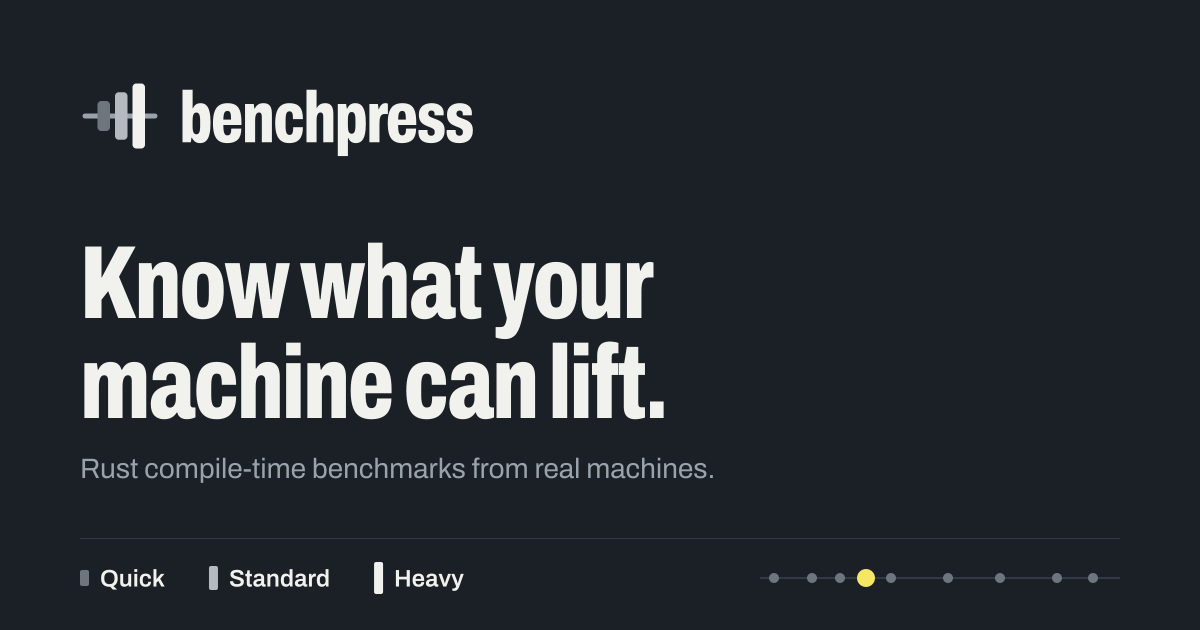
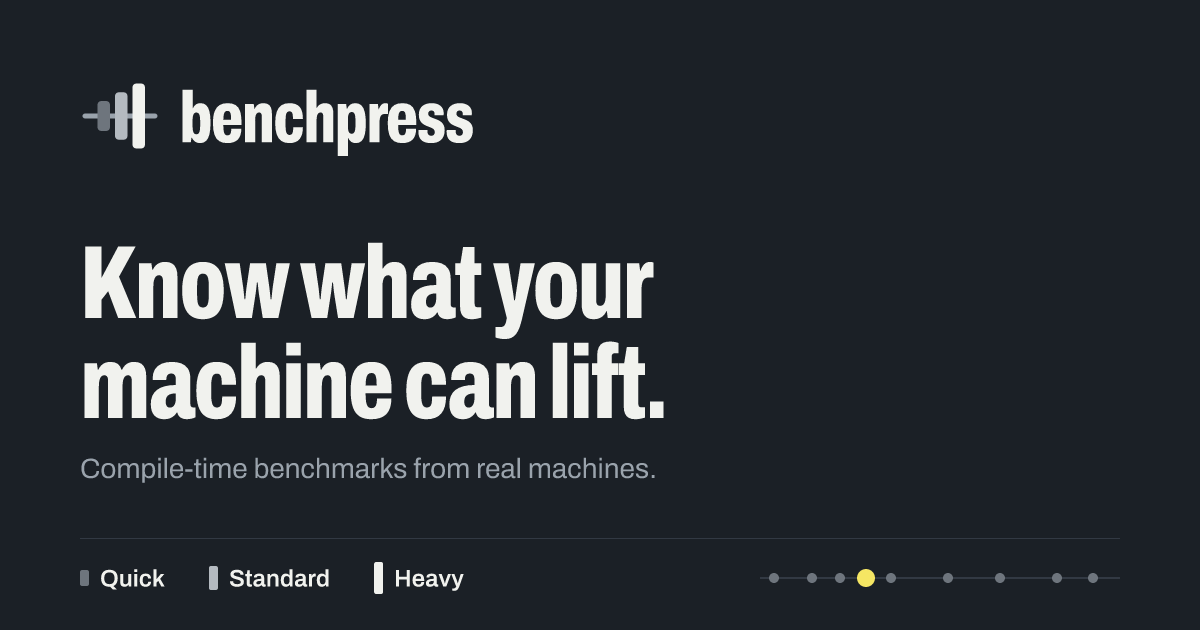
Pitch Benchpress as a compile-time benchmark and shorten the run command
The run command is now curl -fsSL https://benchpress.matx.dev/run | sh.
/run redirects to RUN_URL, so moving the script to release assets later
changes one constant and the command stays the same.

The site, README, CLI help and share image no longer call Benchpress a
Rust tool. They say the first suites are Rust projects and that no
compiler needs to be installed.

Changed region(s): [[0.0617, 0.7238, 0.5858, 0.7841]]

diff --git a/crates/server/templates/home.html b/crates/server/templates/home.html
@@ -2,9 +2,9 @@
 {% from "macros.html" import tier, install_box %}
 {% block main %}
 <section class="home-hero" aria-labelledby="hero-title">
-  <p class="eyebrow">Rust compile-time benchmarks</p>
-  <h1 id="hero-title" class="display">How fast does your machine build Rust?</h1>
-  <p class="lede">Benchpress compiles real open source Rust projects with pinned toolchains, times every build, and shows where your machine ranks against others. One command, nothing to install, and results stay on your machine unless you publish them.</p>
+  <p class="eyebrow">Compile-time benchmarks</p>
+  <h1 id="hero-title" class="display">How fast does your machine build code?</h1>
+  <p class="lede">Benchpress builds real open source projects with pinned compilers, times every build, and shows where your machine ranks against others. You need one command and no compiler, and results stay on your machine unless you publish them.</p>
   <div class="hero-cmd">{{ install_box("install-cmd") }}</div>
   <p class="muted hero-note"><small>Linux (x86_64, arm64) and Apple Silicon Macs. No sudo, nothing left behind. <a href="/start">What the script does</a></small></p>
 </section>
@@ -18,7 +18,7 @@
   <div class="step">
     <span class="step-n num">2</span>
     <h2>Pick a suite</h2>
-    <p class="muted">Benchpress fetches a pinned Rust toolchain and project sources, then times clean and incremental builds several times each.</p>
+    <p class="muted">Benchpress downloads the exact compiler and sources the suite pins into its own cache, then times clean and incremental builds several times each. Compilers you already have are never used or changed.</p>
   </div>
   <div class="step">
     <span class="step-n num">3</span>
@@ -45,6 +45,7 @@
 
 <section class="section" aria-labelledby="tiers-title">
   <div class="section-head"><h2 id="tiers-title">Three suites, light to heavy</h2><a href="/suites">Suite details</a></div>
+  <p class="muted suites-note">The first suites build Rust projects, because Rust's tooling makes an exact build easy to pin and repeat. You do not need Rust installed. Suites for other languages can follow.</p>
   <div class="cols-3">
     {% for s in tiers %}
     <article class="tier-card">

diff --git a/crates/server/templates/start.html b/crates/server/templates/start.html
@@ -3,7 +3,7 @@
 {% block main %}
 <div class="prose">
 <h1 class="display title">Run it now, nothing to install</h1>
-<p class="lede">One command for Linux (x86_64, arm64) and Apple Silicon Macs. No sudo, and nothing stays behind unless you keep it.</p>
+<p class="lede">One command for Linux (x86_64, arm64) and Apple Silicon Macs. No sudo, no compiler needed, and nothing stays behind unless you keep it.</p>
 <div class="mt-7">{{ install_box("install-cmd") }}</div>
 <p class="muted"><small>Skip the menu and start the quick suite: <code class="wrap">curl -fsSL {{ run_url }} | sh -s -- run quick</code></small></p>
 
@@ -15,7 +15,7 @@
   <li>Deletes the binary when you quit. Before that, benchpress offers to remove the toolchains and sources it downloaded.</li>
   <li>Runs everything inside a function called on its last line, so a partially downloaded script never runs.</li>
 </ul>
-<p class="mt-3">The command fetches the script straight from the GitHub repository. <a href="{{ script_url }}">Read it first</a> if you like.</p>
+<p class="mt-3"><code>{{ run_url }}</code> redirects to the script in the GitHub repository. <a href="{{ script_url }}">Read it first</a> if you like.</p>
 
 <h2>Where data goes</h2>
 <dl class="paths mt-5">

diff --git a/crates/server/templates/base.html b/crates/server/templates/base.html
@@ -6,7 +6,7 @@
 <meta name="color-scheme" content="{% if theme %}{{ theme }}{% else %}dark light{% endif %}">
 <meta name="theme-color" content="#1B2026" media="(prefers-color-scheme: dark)">
 <meta name="theme-color" content="#F4F5F3" media="(prefers-color-scheme: light)">
-<title>{% if title == "Benchpress" %}Benchpress · Rust compile-time benchmarks{% else %}{{ title }} · Benchpress{% endif %}</title>
+<title>{% if title == "Benchpress" %}Benchpress · Compile-time benchmarks{% else %}{{ title }} · Benchpress{% endif %}</title>
 <meta name="description" content="{{ description }}">
 {% if path %}<link rel="canonical" href="{{ public_url }}{{ path }}">{% endif %}
 <link rel="icon" href="/favicon.ico" sizes="48x48">
@@ -48,7 +48,7 @@
 </main>
 <footer class="site-footer">
   <div class="wrap">
-    <p>Know what your machine can lift. Rust compile-time benchmarks from real machines.</p>
+    <p>Know what your machine can lift. Compile-time benchmarks from real machines.</p>
     <nav aria-label="Footer">
       <a href="https://github.com/matx64/benchpress">Source on GitHub</a>
       <a href="/about#privacy">Privacy</a>

diff --git a/crates/server/static/app.css b/crates/server/static/app.css
@@ -180,6 +180,7 @@
   .home-hero { padding-block: var(--bp-space-7) var(--bp-space-4); text-align: center; display: grid; justify-items: center; }
   .home-hero h1 { font-size: clamp(var(--bp-size-2xl), 7vw, var(--bp-size-4xl)); max-width: 16ch; }
   .home-hero .lede { max-width: 60ch; margin-top: var(--bp-space-5); }
+  .suites-note { max-width: 70ch; margin: calc(-1 * var(--bp-space-3)) 0 var(--bp-space-5); }
   .hero-cmd { width: 100%; max-width: 60rem; margin-top: var(--bp-space-7); text-align: left; }
   .hero-cmd .cmd { background: var(--bp-surface); }
   .hero-cmd .cmd code { font-size: var(--bp-size-sm); padding: var(--bp-space-4) var(--bp-space-5); }

diff --git a/crates/server/templates/about.html b/crates/server/templates/about.html
@@ -2,7 +2,7 @@
 {% block main %}
 <div class="prose">
 <h1 class="display title">Methodology and privacy</h1>
-<p class="lede">Benchpress answers buying questions with real builds: clean builds, incremental rebuilds and <code>cargo check</code> on pinned Rust projects, measured on the machines people actually use.</p>
+<p class="lede">Benchpress answers buying questions with real builds: clean builds, incremental rebuilds and type checks of pinned open source projects, measured on the machines people actually use. Today every suite is a Rust project, because Rust's tooling makes an exact build easy to pin.</p>
 
 <h2>What a run does</h2>
 <ul>

diff --git a/crates/server/src/assets.rs b/crates/server/src/assets.rs
@@ -6,7 +6,7 @@ use std::sync::{Arc, LazyLock};
 use axum::Router;
 use axum::extract::Path;
 use axum::http::{StatusCode, header};
-use axum::response::{IntoResponse, Response};
+use axum::response::{IntoResponse, Redirect, Response};
 use axum::routing::get;
 use sha2::{Digest, Sha256};
 
@@ -103,7 +103,7 @@ fn serve(name: &str, immutable: bool) -> Response {
         .into_response()
 }
 
-/// Where the launcher is fetched from. Switch to
+/// Where `/run` redirects. Switch to
 /// `https://github.com/matx64/benchpress/releases/latest/download/run.sh` after the first release.
 pub const RUN_URL: &str = "https://raw.githubusercontent.com/matx64/benchpress/main/run.sh";
 
@@ -138,5 +138,6 @@ pub fn routes() -> Router<Arc<AppState>> {
             "/social/og-default.png",
             get(|| async { serve("social/og-default.png", false) }),
         )
+        .route("/run", get(|| async { Redirect::temporary(RUN_URL) }))
         .route("/robots.txt", get(|| async { "User-agent: *\nAllow: /\n" }))
 }

diff --git a/crates/server/src/views.rs b/crates/server/src/views.rs
@@ -29,12 +29,10 @@ impl Views {
             "sprite",
             Value::from_safe_string(include_str!("../assets/sprite.svg").to_owned()),
         );
-        env.add_global("run_url", assets::RUN_URL);
+        let run_url = format!("{public_url}/run");
+        env.add_global("install_cmd", format!("curl -fsSL {run_url} | sh"));
+        env.add_global("run_url", run_url);
         env.add_global("script_url", assets::SCRIPT_SOURCE_URL);
-        env.add_global(
-            "install_cmd",
-            format!("curl -fsSL {} | sh", assets::RUN_URL),
-        );
         env.add_function("asset", |name: &str| {
             Value::from_safe_string(assets::url(name))
         });

diff --git a/crates/cli/src/main.rs b/crates/cli/src/main.rs
@@ -1,4 +1,4 @@
-//! `benchpress`: benchmark Rust compile times on this machine.
+//! `benchpress`: benchmark compile times on this machine.
 
 mod commands;
 mod fetch;
@@ -18,7 +18,7 @@ use std::process::ExitCode;
 
 use clap::{Parser, Subcommand};
 
-/// Know what your machine can lift. Rust compile-time benchmarks from real machines.
+/// Know what your machine can lift. Compile-time benchmarks from real machines.
 #[derive(Parser)]
 #[command(name = "benchpress", version, about, long_about = None)]
 struct Cli {

diff --git a/crates/server/tests/api.rs b/crates/server/tests/api.rs
@@ -108,6 +108,15 @@ async fn submit_show_unpublish() {
 
     let steps = [
         Step {
+            name: "run command",
+            method: Method::GET,
+            path: "/run",
+            token: None,
+            body: None,
+            status: StatusCode::TEMPORARY_REDIRECT,
+            code: None,
+        },
+        Step {
             name: "duplicate",
             method: Method::POST,
             path: "/api/v1/results",

diff --git a/crates/server/src/pages.rs b/crates/server/src/pages.rs
@@ -279,7 +279,7 @@ async fn home(State(state): State<Arc<AppState>>, jar: CookieJar, headers: Heade
         .collect();
     let mut ctx = p.base(
         "Benchpress",
-        "Know what your machine can lift. Rust compile-time benchmarks from real machines.",
+        "Know what your machine can lift. Compile-time benchmarks from real machines.",
         "/",
         "home",
     );

diff --git a/README.md b/README.md
@@ -9,13 +9,15 @@ Benchpress measures how fast your computer compiles software. It builds a well-k
 
 Use it to compare laptops before you buy, check whether an upgrade paid off, or see how a new machine stacks up before you trust it with real work.
 
+The first suites build Rust projects, because Rust's tooling makes an exact build easy to pin and repeat. You do not need Rust installed: Benchpress downloads each suite's toolchain into its own cache and reuses it on later runs. Suites for other languages can follow.
+
 ## Run it, nothing to install
 
 ```sh
-curl -fsSL https://raw.githubusercontent.com/matx64/benchpress/main/run.sh | sh
+curl -fsSL https://benchpress.matx.dev/run | sh
 ```
 
-This works on Linux (x86_64 and arm64) and Apple Silicon Macs, and never uses `sudo`. The command fetches [`run.sh`](run.sh) from this repository, so you can read it first. The script:
+This works on Linux (x86_64 and arm64) and Apple Silicon Macs, and never uses `sudo`. `benchpress.matx.dev/run` redirects to [`run.sh`](run.sh) in this repository, so you can read it first. The script:
 
 1. downloads one static binary from the latest release into a temporary directory and checks its SHA-256;
 2. opens a menu in your terminal, where every action returns to the menu and Ctrl+C cancels a running benchmark;
@@ -24,7 +26,7 @@ This works on Linux (x86_64 and arm64) and Apple Silicon Macs, and never uses `s
 To skip the menu, pass a command after `sh -s --`:
 
 ```sh
-curl -fsSL https://raw.githubusercontent.com/matx64/benchpress/main/run.sh | sh -s -- run quick
+curl -fsSL https://benchpress.matx.dev/run | sh -s -- run quick
 ```
 
 <!-- TODO: screenshot of a result page -->

diff --git a/docs/deploy.md b/docs/deploy.md
@@ -49,11 +49,7 @@ Deploy runs `fly deploy --remote-only`, which builds `Dockerfile` on Fly's build
 
 ### After the first release
 
-Until a release exists, the run command fetches `run.sh` from `main`, and that script downloads `releases/latest`. Once the first release is out, change the URL to `https://github.com/matx64/benchpress/releases/latest/download/run.sh` in these places, so the script and the binary always come from the same release:
-
-- `RUN_URL` in `crates/server/src/assets.rs`, which the website shows;
-- the commands in `README.md`;
-- the usage lines at the top of `run.sh`.
+The run command fetches `https://benchpress.matx.dev/run`, which redirects to `RUN_URL` in `crates/server/src/assets.rs`. Until a release exists, that is `run.sh` on `main`, and the script downloads `releases/latest`. Once the first release is out, set `RUN_URL` to `https://github.com/matx64/benchpress/releases/latest/download/run.sh` and deploy, so the script and the binary always come from the same release. The command itself stays the same.
 
 ## Backups
 
